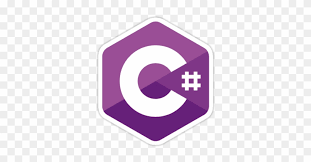
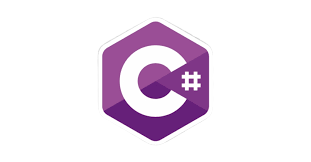
Adjust anchor jump, remove img bg

diff --git a/src/components/Home.tsx b/src/components/Home.tsx
@@ -1,20 +1,22 @@
 export function Home () {
   return (
-    <section className='container page-width page-height'>
-      <div className='home-container'>
-        <img src='/src/assets/Images/images/SoftwareDevelopment.png' />
-        <div className='home-text'>
-          <h1 className='container-title'><strong>Tree of Life Software</strong></h1>
-          <p>As professionals on technologies and business, we are here to help you succeed.</p>
-          <p>We understand that your business is constantly changing and evolving, looking for the competitive advantage that makes you unique.</p>
-          <p> We will be there with you every step of the way providing the resources and support you need to reach your goals.</p>
-          <p>We are a US based software development consultant firm with over
-            <span className='number'> +15 </span>
-            years of custom software experience in design, development and implementation
-          </p>
-          <p>We design and develop custom software solutions that deliver digital transformation and improve the lives of our customers, </p>
+    <>
+      <section className='container page-width page-height'>
+        <div className='home-container'>
+          <img src='/src/assets/Images/images/SoftwareDevelopment.png' />
+          <div className='home-text'>
+            <h1 className='container-title container-title-home'><strong>Tree of Life Software</strong></h1>
+            <p>As professionals on technologies and business, we are here to help you succeed.</p>
+            <p>We understand that your business is constantly changing and evolving, looking for the competitive advantage that makes you unique.</p>
+            <p> We will be there with you every step of the way providing the resources and support you need to reach your goals.</p>
+            <p>We are a US based software development consultant firm with over
+              <span className='number'> +15 </span>
+              years of custom software experience in design, development and implementation
+            </p>
+            <p>We design and develop custom software solutions that deliver digital transformation and improve the lives of our customers, </p>
+          </div>
         </div>
-      </div>
-    </section>
+      </section>
+    </>
   )
 }

diff --git a/src/components/Technologies.tsx b/src/components/Technologies.tsx
@@ -6,9 +6,12 @@ export function Technologies () {
   const techData: Techs[] = technologies as Techs[]
 
   return (
-    <section id='technologies' className='container page-width page-height border'>
+    <section className='container page-width page-height border'>
       <div className='tech-container'>
-        <h2 className='container-title'><strong>Our Technology Stack</strong></h2>
+        <h2 className='container-title'>
+          <span id='technologies' className='main-inpage-anchor-space' />
+          <strong>Our Technology Stack</strong>
+        </h2>
         <div className='tech-list'>
           {
             techData.map((tech) => {

diff --git a/src/styles/AppSidebar.css b/src/styles/AppSidebar.css
@@ -8,7 +8,7 @@
   border-radius: 5px;
   box-shadow: 0px 0px 10px var(--color-gray-paynes);
   background-color: rgb(255, 255, 255);
-  padding: 10px;
+  padding: 0;
   transition-property: all;
   transition-timing-function: ease-in-out;
   transition-duration: 200ms;
@@ -17,18 +17,20 @@
 
 .sidebar ul {
   list-style: none;
-  margin-top: 10px;
+  padding: 0;
 }
 
 .sidebar li {
-  margin-left: 20px;
+  margin-top: 10px;
   margin-bottom: 10px;
 }
 
 .sidebar ul li a {
+  display: block;
   color: black;
   text-decoration: none;
   font-weight: bolder;
+  padding-left: 10px;
 }
 
 .sidebar ul li a:hover {

diff --git a/src/styles/responsive.css b/src/styles/responsive.css
@@ -73,10 +73,17 @@
     align-items: flex-end;
   }
 
-  .container-title {
+  .container-title-home {
     position: relative;
     top: -10px;
     left: -120px;
+    font-size: 2.4em;
+    margin-top: 0px;
+    margin-bottom: 5px;
+  }
+
+  .container-title {
+    position: relative;
     font-size: 2.4em;
     margin-top: 0px;
     margin-bottom: 5px;

diff --git a/src/styles/App.css b/src/styles/App.css
@@ -62,6 +62,13 @@ h6 {
   padding: 10px;
   min-height: 80dvh;
   min-height: 80vh;
+  overflow: hidden;
+}
+
+.main-inpage-anchor-space {
+  margin-top: -18vh;
+  padding-bottom: 18vh;
+  display: block;
 }
 
 .container {
